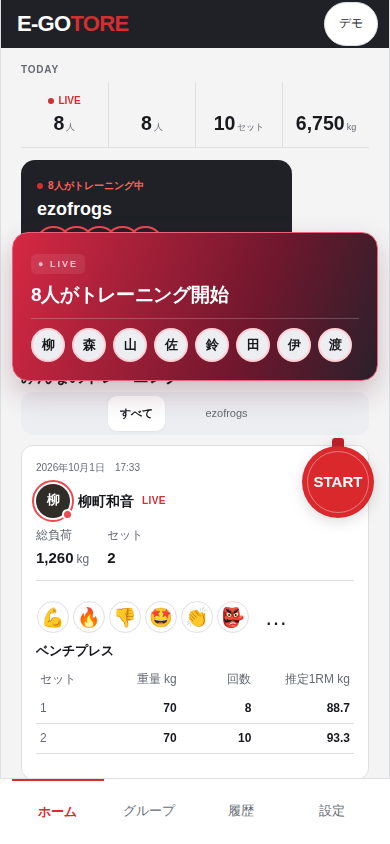
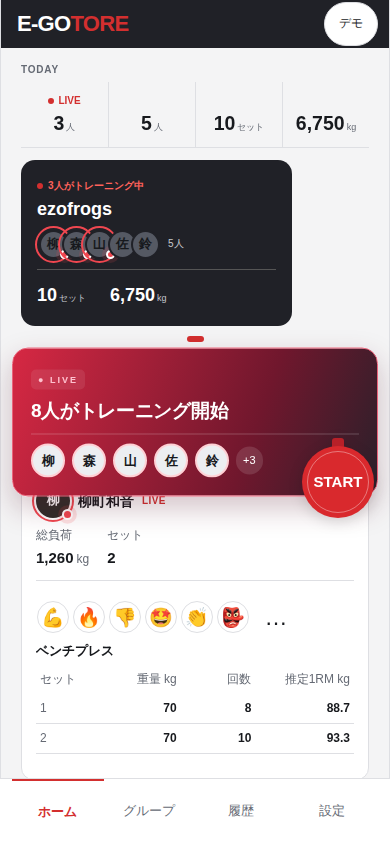
docs: デモ通知の統合検証と実画面を更新

Changed region(s): [[0.0, 0.2464, 0.9846, 0.6469], [0.3692, 0.1232, 0.4, 0.154], [0.1231, 0.1232, 0.1538, 0.154]]

diff --git a/progress.md b/progress.md
@@ -4719,3 +4719,9 @@
 - 検証: 先に中央位置テストが旧実装で失敗することを確認。最終make check成功（backend310件、frontend146件、lint/typecheck/build）。通知PR単体の13件成功。時計との組合せ25件中24件成功後、スタンプの登場中に座標を取得する不安定さを修正し、関連5件成功（唯一の失敗ケースを含む）。時計関連12件も成功。320/390/430pxの中央配置・左右の動き・顔列と時計の前面・画面移動・再登場/延長なし・記録中中央・動き低減・フォーム内移動/保存を確認。撮影画像を目視。テストを複数同一作業コピーで同時実行した際のtrace出力競合は、逐次実行で解消した。
 - 未解決事項: Android/iOS実機キーボードと公開Pushの確認、独立レビュー。全E2Eの更新CIを確認する。
 - 次のアクション: 通知PR #283を更新。時計はPR #286に分離し、組み合わせた確認アプリ3154を案内する。
+
+## 2026-10-01 デモと先行通知PRの競合解消
+- 変更内容: 並行して先行通知PR #283へ中央カットイン9214971が追加され、デモPRの文書が競合しCIが起動しなくなった。最新通知をマージし、設計リンク・task.md・progress.mdは双方を保持、デモ受信イベントの購読も保持した。
+- 目的/影響範囲: 同じ実通知部品を利用し、デモPRをレビュー・CI可能な状態へ戻す。元の作業コピーや先行PRは変更していない。
+- 検証: 自動再生c50706aの公開プレビューでデモE2E5件成功。自動再生前c50eb6eの全CI成功。通知統合後のmake check成功（backend310件/frontend151件・lint/型/build）、通知13件とデモ5件の計18件成功。開始画像を中央カットインへ更新し目視確認。
+- 未解決事項/次のアクション: 更新プレビュー・最新CI・独立レビュー・main統合/実機は別途。時計はPR #286が作成済み。

diff --git a/docs/images/demo/README.md b/docs/images/demo/README.md
@@ -8,6 +8,8 @@
 
 これは同じ画面の装飾変更ではなく、ログイン不要の入口を追加した比較。`/` のログイン仕様は変わらない。
 
+開いている間はスタンプと開始通知を自動受信する。手動でも再生できる。開始画像は最新の中央カットインへ更新。
+
 追加したデモ操作と、既存部品による通知・記録:
 
 | デモメニュー | 20件のスタンプ | 8人の開始 | セット記録 |
